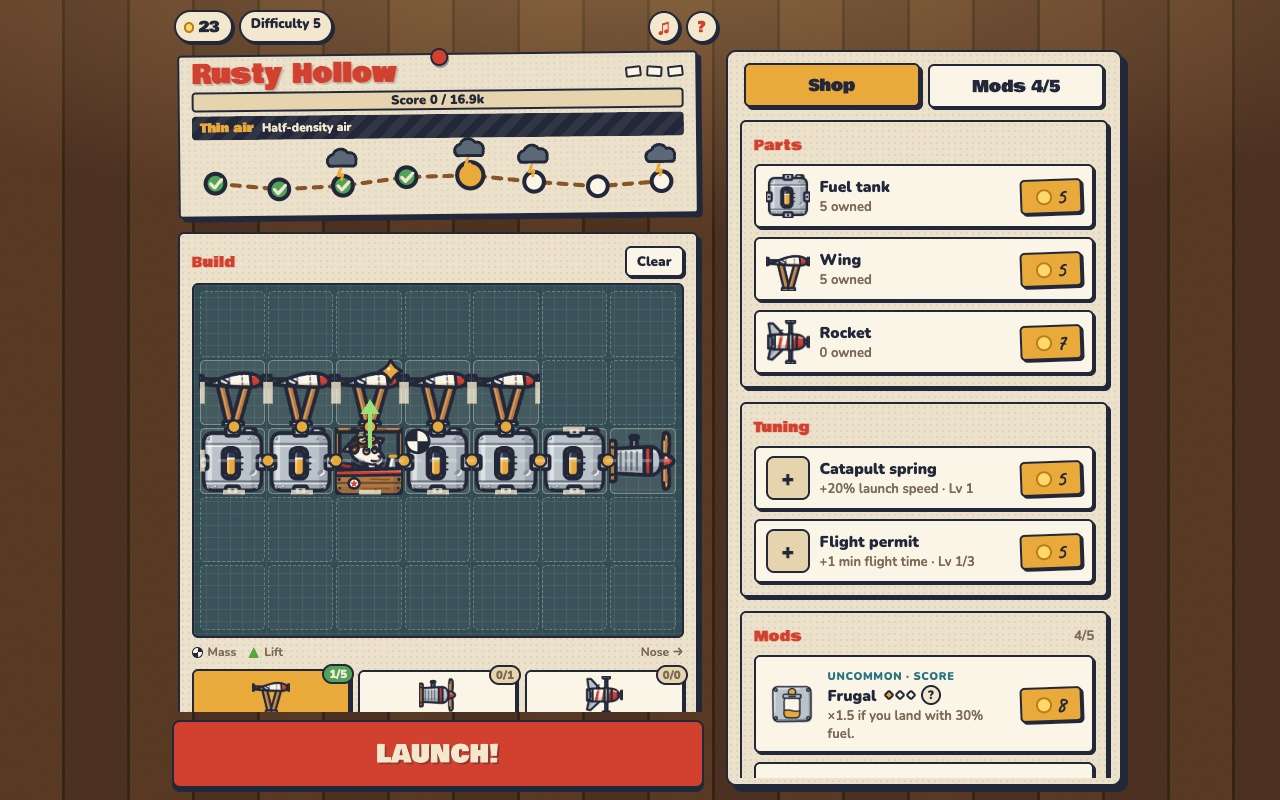
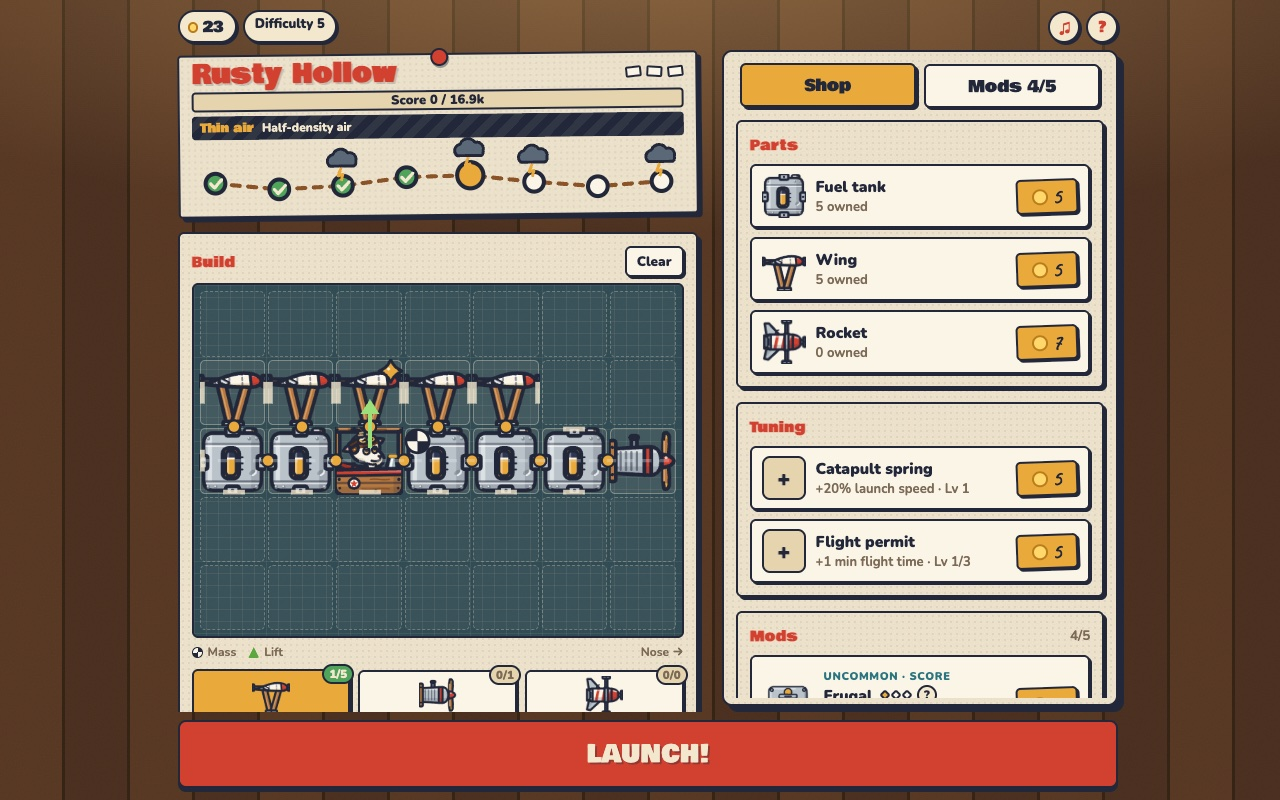
Landscape hangar: toolbar and launch bar span both cards; the panel ends above the launch bar

diff --git a/client/src/style.css b/client/src/style.css
@@ -647,7 +647,7 @@ body.offline::after{content:"Reconnecting…";position:fixed;left:50%;top:calc(v
    Matches WIDE in ui.js. Phones (portrait, or too short in landscape) keep the single column above. */
 @media (min-width:820px) and (min-height:520px) and (orientation:landscape){
   /* the hangar column and the shop column float side by side, centered on the barn wall */
-  :root{--side:clamp(330px,31vw,400px);--lw:min(560px,calc(100vw - var(--side) - 56px));--x0:max(16px,calc((100vw - var(--lw) - 8px - var(--side)) / 2))}
+  :root{--side:clamp(330px,31vw,400px);--lw:min(552px,calc(100vw - var(--side) - 40px));--x0:max(0px,calc((100vw - var(--lw) - 8px - var(--side)) / 2));--span:calc(var(--lw) - 8px + var(--side))}
 
   /* home: the phone layout split in two. Logo, plane and profile left, the games right */
   .bench.titlebench{grid-template-columns:repeat(2,minmax(0,1fr));grid-template-rows:auto auto 1fr;column-gap:32px;row-gap:0;
@@ -661,15 +661,15 @@ body.offline::after{content:"Reconnecting…";position:fixed;left:50%;top:calc(v
 
   /* hangar: the phone layout on the left, the shop / mods panel docked on the right (its tabs replace the bar's buttons) */
   #hangar{padding-left:var(--x0);padding-right:calc(100vw - var(--x0) - var(--lw))}
-  #hangar>.hbar{grid-template-columns:1fr}
   #hangar>.hbar .tool{display:none}
 
   /* the docked panel: Shop | Mods tabs, the offers scrolling below */
-  /* the coins / sound / help bar runs across both columns; the panel starts level with the poster (top set in ui.js)
-     and is only as tall as its content */
-  #hangar>.htop{max-width:none;margin:0 calc(-8px - var(--side)) 0 0;padding-right:0}
+  /* the panel starts level with the poster and ends above the launch bar (both set in ui.js), only as tall as its content */
+  /* the toolbar and the launch bar run across both cards (from the left card's edge to the panel's right edge) */
+  #hangar>.htop,#hangar>.hbar{width:var(--span);max-width:none;margin:0 0 0 16px;padding-left:0;padding-right:0}
+  #hangar>.hbar{grid-template-columns:1fr}
   .drawer.docked{left:calc(var(--x0) + var(--lw) + 8px);right:auto;width:var(--side);top:var(--dtop,70px);bottom:auto;
-    max-height:calc(100vh - var(--dtop,70px) - 14px - env(safe-area-inset-bottom,0px));flex-direction:column;align-items:stretch;z-index:5}
+    max-height:calc(100vh - var(--dtop,70px) - var(--dbot,110px));flex-direction:column;align-items:stretch;z-index:5}
   .drawer.docked .dr-scrim,.drawer.docked .dr-grab,.drawer.docked .dr-x,.drawer.docked #dealerTitle{display:none}
   .drawer.docked .dr-panel{max-width:none;height:auto;max-height:100%;min-height:0;flex:0 1 auto;transform:none;transition:none;border:var(--ol) solid var(--ink);border-radius:10px;
     padding:12px 0 6px;box-shadow:6px 6px 0 var(--ink);overflow:hidden}

diff --git a/client/src/ui.js b/client/src/ui.js
@@ -224,8 +224,10 @@ const dealer=$('dealer'), dbody=$('dealerBody');
 const WIDE=matchMedia('(min-width:820px) and (min-height:520px) and (orientation:landscape)');
 let side='shop';
 function dock(){const wide=WIDE.matches;dealer.classList.toggle('docked',wide);if(wide)requestAnimationFrame(dockTop);return wide}
-// the docked panel starts level with the show poster, under the coins bar
-function dockTop(){if(!$('hangar').hidden)document.documentElement.style.setProperty('--dtop',Math.round($('cstrip').getBoundingClientRect().top)+'px')}
+// the docked panel starts level with the show poster (under the toolbar) and ends above the launch bar
+function dockTop(){if($('hangar').hidden)return;const st=document.documentElement.style;
+  st.setProperty('--dtop',Math.round($('cstrip').getBoundingClientRect().top)+'px');
+  st.setProperty('--dbot',Math.round(innerHeight-$('launch').getBoundingClientRect().top+14)+'px')}
 addEventListener('resize',()=>{if(WIDE.matches)dockTop()});
 function setTab(t){const wide=dock();
   if(wide&&t==='build')t=side;if(t!=='build')side=t;
